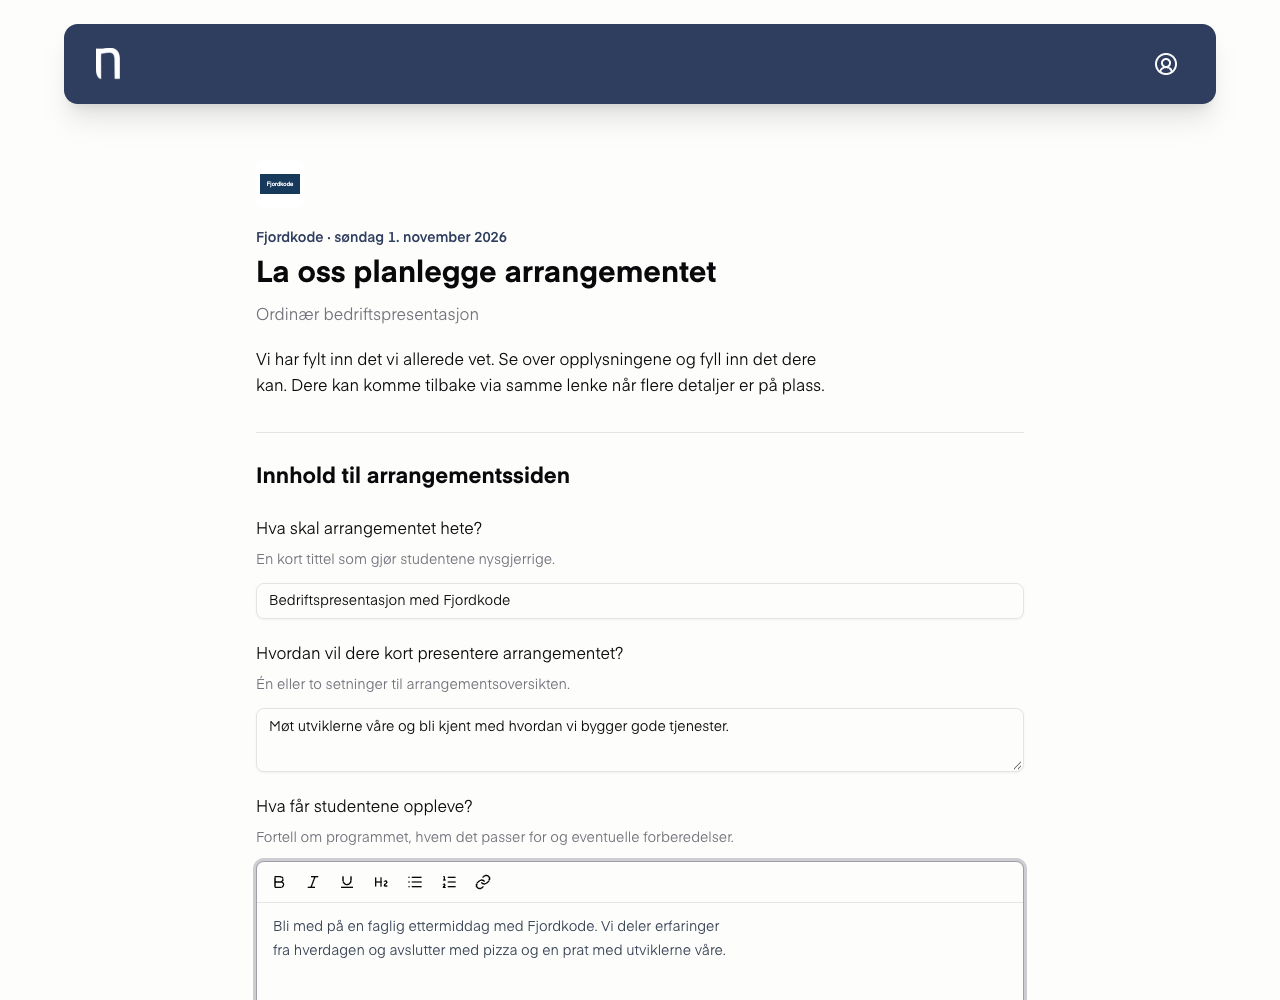
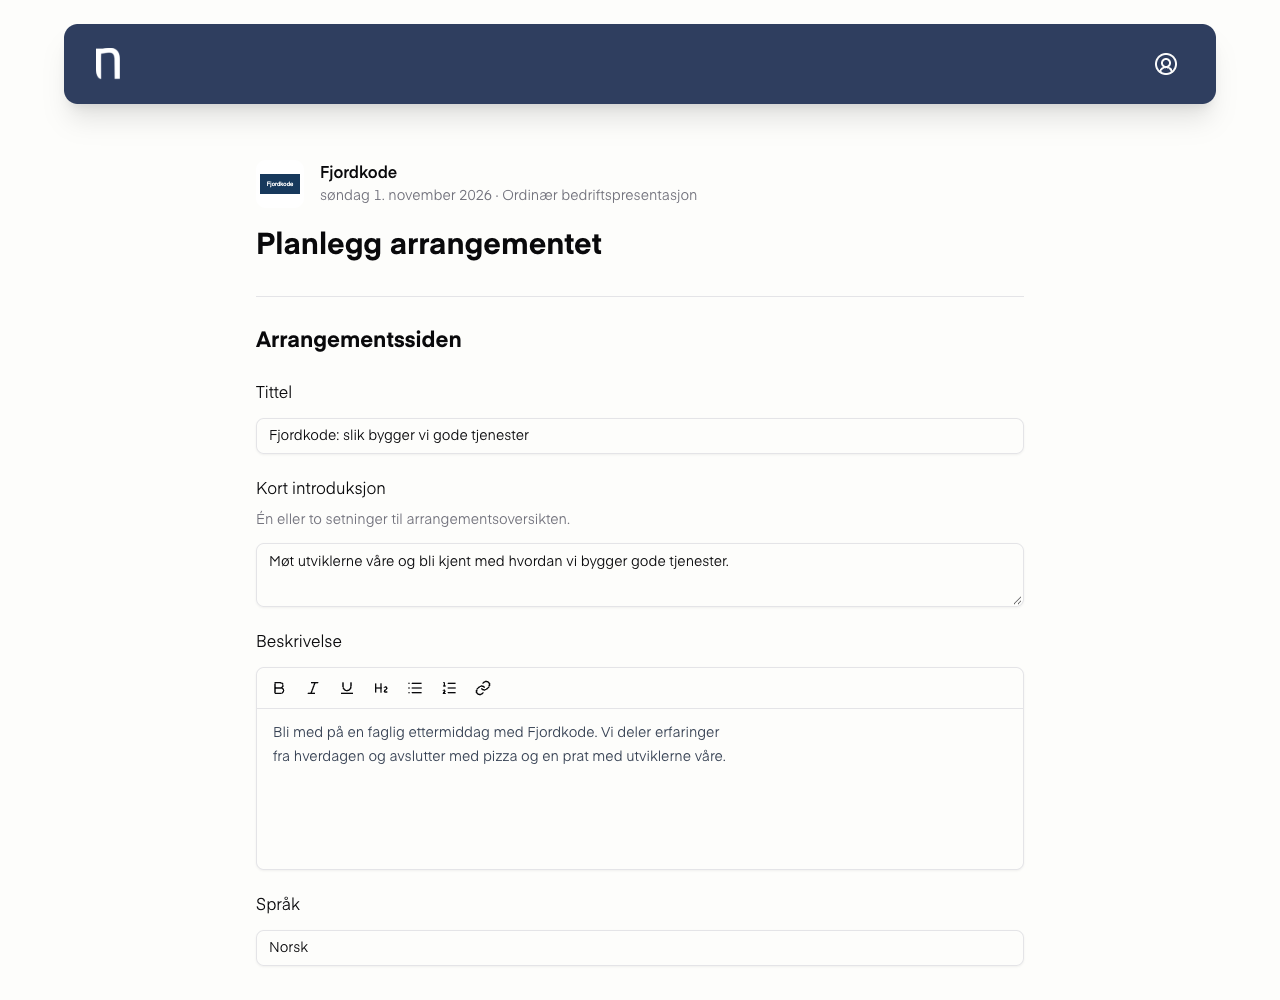
style: trim event editor help and refresh planning screenshots

Changed region(s): [[0.1875, 0.434, 0.5625, 0.775], [0.1875, 0.155, 0.625, 0.403], [0.1875, 0.806, 0.8125, 0.992]]

diff --git a/apps/bifrost/src/components/events/event-form/event-form.tsx b/apps/bifrost/src/components/events/event-form/event-form.tsx
@@ -4,7 +4,6 @@ import { useForm } from "@tanstack/react-form";
 import type { Id } from "@workspace/backend/convex/dataModel";
 import {
 	Field,
-	FieldDescription,
 	FieldError,
 	FieldGroup,
 	FieldLabel,
@@ -82,7 +81,6 @@ export default function EventForm({
 										className="truncate"
 									/>
 									{isInvalid && <FieldError errors={field.state.meta.errors} />}
-									<FieldDescription>Dette er hva arrangementet skal hete.</FieldDescription>
 								</Field>
 							);
 						}}
@@ -222,23 +220,11 @@ export default function EventForm({
 
 				<FieldGroup className="grid gap-4 sm:grid-cols-2">
 					<form.Field name="eventDate">
-						{(field) => (
-							<DateTimePicker
-								field={field}
-								label="Dato og tid for arrangements start"
-								description="Velg dato og tid for når arrangementet starter"
-							/>
-						)}
+						{(field) => <DateTimePicker field={field} label="Arrangementet starter" />}
 					</form.Field>
 
 					<form.Field name="registrationDate">
-						{(field) => (
-							<DateTimePicker
-								field={field}
-								label="Dato og tid for åpning av påmelding"
-								description="Velg dato og tid for åpning av påmeldingen av arrangementet"
-							/>
-						)}
+						{(field) => <DateTimePicker field={field} label="Påmeldingen åpner" />}
 					</form.Field>
 				</FieldGroup>
 
@@ -262,20 +248,13 @@ export default function EventForm({
 									placeholder="Velkommen til en magisk aften med Navet"
 								/>
 								{isInvalid && <FieldError errors={field.state.meta.errors} />}
-								<FieldDescription>Dette er en liten teaser av arrangementet.</FieldDescription>
 							</Field>
 						);
 					}}
 				</form.Field>
 
 				<form.Field name="description">
-					{(field) => (
-						<DescriptionEditor
-							field={field}
-							title="Beskrivelse"
-							description="Dette er beskrivelsen for arrangementet."
-						/>
-					)}
+					{(field) => <DescriptionEditor field={field} title="Beskrivelse" />}
 				</form.Field>
 
 				<FieldSeparator />
@@ -340,9 +319,6 @@ export default function EventForm({
 									className="truncate"
 								/>
 								{isInvalid && <FieldError errors={field.state.meta.errors} />}
-								<FieldDescription>
-									Legg til en URL for ekstern påmelding til arrangementet
-								</FieldDescription>
 							</Field>
 						);
 					}}

diff --git a/apps/bifrost/src/components/events/event-form/organizers.tsx b/apps/bifrost/src/components/events/event-form/organizers.tsx
@@ -4,7 +4,7 @@ import { api } from "@workspace/backend/convex/api";
 import type { Id } from "@workspace/backend/convex/dataModel";
 import type { OrganizerRole } from "@workspace/shared/constants";
 import { Button } from "@workspace/ui/components/button";
-import { Field, FieldDescription, FieldError, FieldLabel } from "@workspace/ui/components/field";
+import { Field, FieldError, FieldLabel } from "@workspace/ui/components/field";
 import {
 	Select,
 	SelectContent,
@@ -133,9 +133,6 @@ export default function Organizers({
 				</div>
 				<OrganizersTable columns={columns} data={selectedOrganizers} />
 			</div>
-			<FieldDescription>
-				Velg hvem som er ansvarlig for og skal organisere/planlegge arrangementet.
-			</FieldDescription>
 			{isInvalid && <FieldError errors={field.state.meta.errors} />}
 		</Field>
 	);

diff --git a/apps/bifrost/src/components/common/forms/date-time-picker.tsx b/apps/bifrost/src/components/common/forms/date-time-picker.tsx
@@ -28,7 +28,7 @@ export default function DateTimePicker({
 		handleBlur: () => void;
 	};
 	label: string;
-	description: string;
+	description?: string;
 	latestDate?: Date;
 }>) {
 	const isInvalid = field.state.meta.isTouched && !field.state.meta.isValid;
@@ -104,7 +104,7 @@ export default function DateTimePicker({
 					className="w-fit appearance-none bg-background [&::-webkit-calendar-picker-indicator]:hidden [&::-webkit-calendar-picker-indicator]:appearance-none"
 				/>
 			</div>
-			<FieldDescription>{description}</FieldDescription>
+			{description && <FieldDescription>{description}</FieldDescription>}
 			{isInvalid && <FieldError errors={field.state.meta.errors} />}
 		</Field>
 	);

diff --git a/apps/bifrost/src/components/common/forms/company-select-field.tsx b/apps/bifrost/src/components/common/forms/company-select-field.tsx
@@ -1,7 +1,7 @@
 "use client";
 
 import { api } from "@workspace/backend/convex/api";
-import { Field, FieldDescription, FieldError, FieldLabel } from "@workspace/ui/components/field";
+import { Field, FieldError, FieldLabel } from "@workspace/ui/components/field";
 import { SearchSelect } from "@workspace/ui/components/search-select";
 import { useQuery } from "convex/react";
 import { useId } from "react";
@@ -42,7 +42,6 @@ export default function CompanySelectField({
 				emptyText="Fant ingen bedrift(er)."
 			/>
 			{isInvalid && <FieldError errors={errors} />}
-			<FieldDescription>Velg hvilken bedrift annonsen skal være knyttet til</FieldDescription>
 		</Field>
 	);
 }

diff --git a/apps/bifrost/src/components/common/forms/markdown-editor/editor.tsx b/apps/bifrost/src/components/common/forms/markdown-editor/editor.tsx
@@ -11,7 +11,7 @@ import ContentEditor from "@/components/common/forms/markdown-editor/markdown-ed
 
 export default function DescriptionEditor({
 	title = "Beskrivelse",
-	description = "Dette er beskrivelsen.",
+	description,
 	field,
 }: Readonly<{
 	title?: string;
@@ -88,7 +88,7 @@ export default function DescriptionEditor({
 		<Field data-invalid={isInvalid}>
 			<FieldLabel htmlFor={field.name}>{title}</FieldLabel>
 			<ContentEditor editor={editor} />
-			<FieldDescription>{description}</FieldDescription>
+			{description && <FieldDescription>{description}</FieldDescription>}
 			{isInvalid && <FieldError errors={field.state.meta.errors} />}
 		</Field>
 	);
